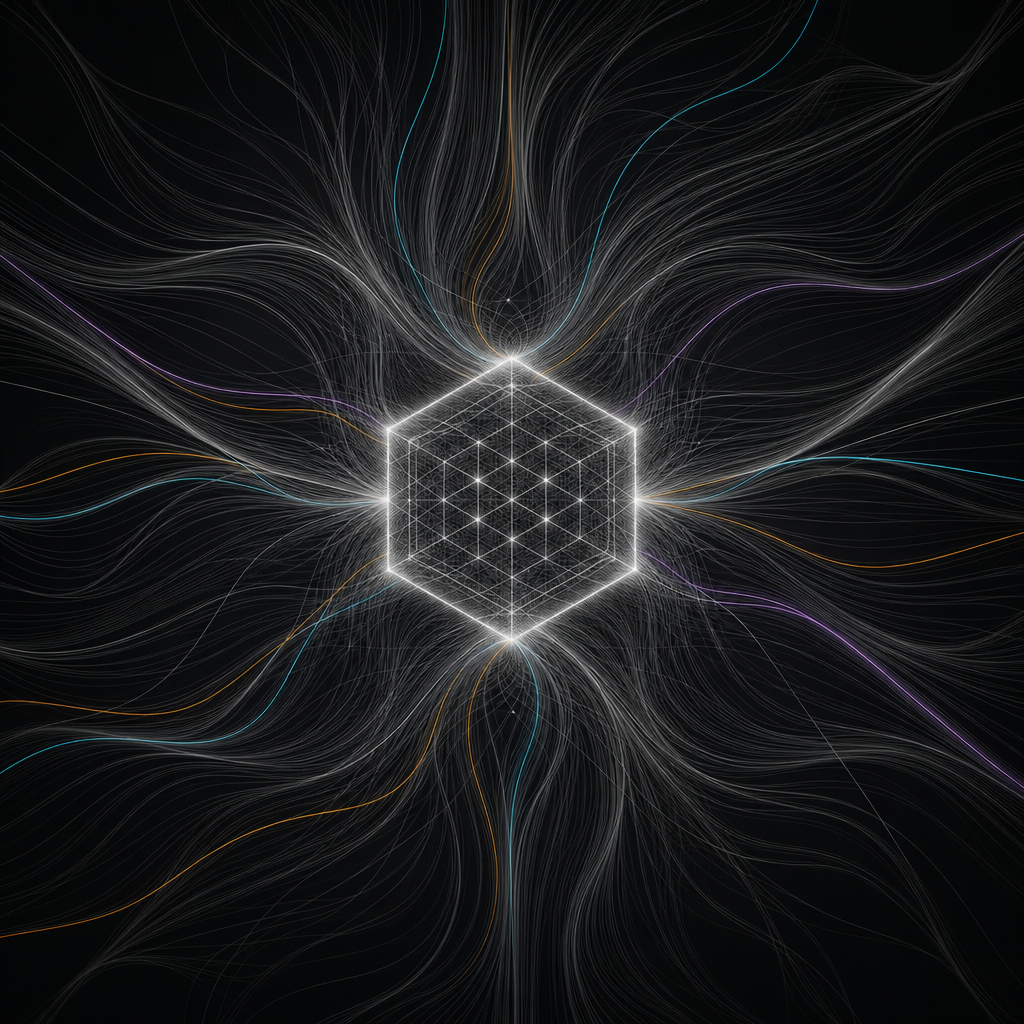
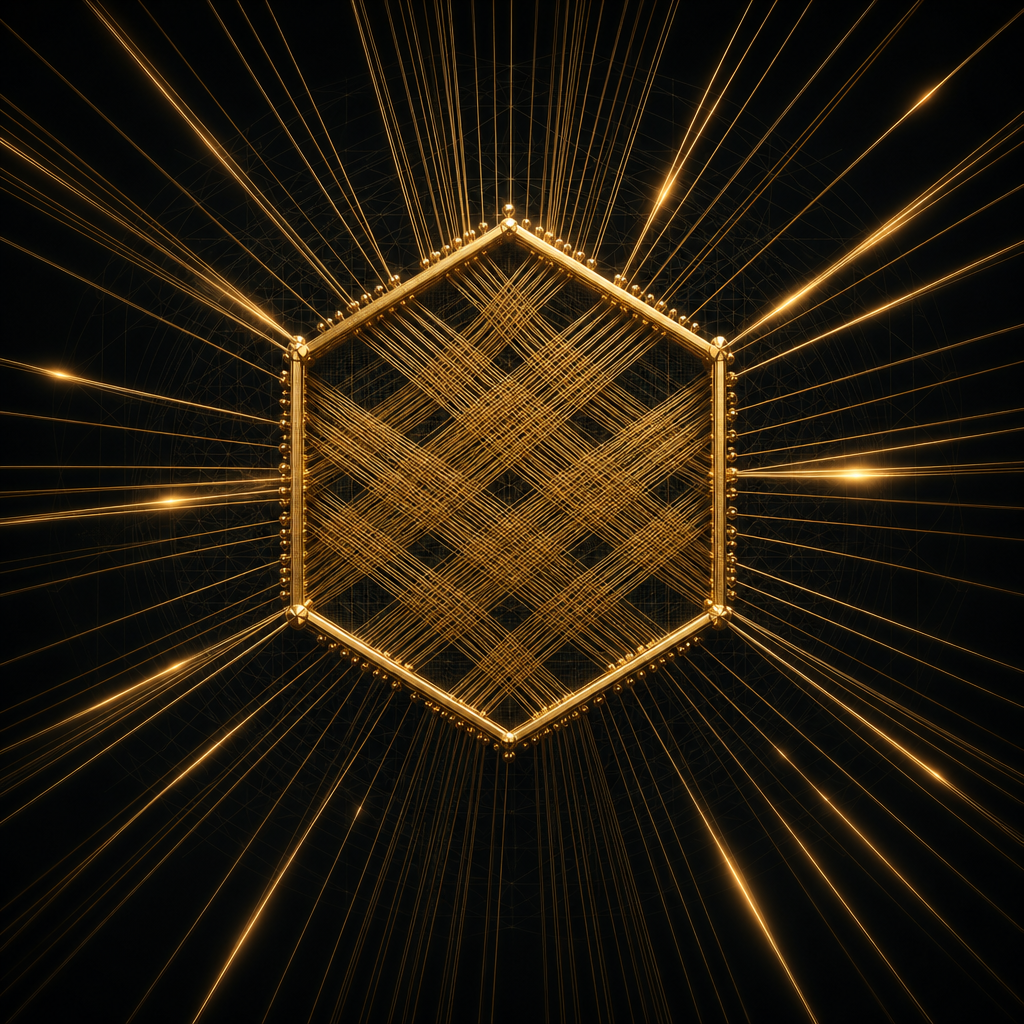
docs: README diagrams v2 (unified thread aesthetic) + news skill tweak (#446)
* docs(readme): swap all four diagrams to v2 (unified thread aesthetic)

絲絲 v2 統一了視覺語言 — 全部走「發光 thread + 編織」的調性：
- hero — 金色六邊形 + 放射光線
- architecture — 七層橫向 woven 帶狀, harness 居中發光
- middleware — spirograph 同心織紋, 中心 tool handler
- action-lifecycle — 主軸光鏈 + abort/timeout 虛線分岔, 火花點綴

取代 v1 的扁平科技風（Linear / Vercel 那種）。README URL 不變。

* docs(skill): news-aggregator — add Legitimacy Guard pre-step + concise wording

- 步驟 1 加入「先 list_dir(\"news/\") 建立 Legitimacy Guard 上下文」前置步驟
  解釋 fetch_news.py subprocess 為什麼不能直接建立寫入 context
- 摘要描述「跨領域關聯分析」→「跨域關聯分析」
- 修回 description typo（脫脫離 → 脫離）

---------

diff --git a/skills/news-aggregator/SKILL.md b/skills/news-aggregator/SKILL.md
@@ -29,7 +29,7 @@ Loom/
 │       ├── international_briefing.md → 國際晨報
 │       ├── medical_briefing.md     → 醫學晨報
 │       ├── astronomy_briefing.md    → 天文晨報
-│       └── daily_briefing.md       → 四合一總摘要（含跨領域關聯分析）
+│       └── daily_briefing.md       → 四合一總摘要（含跨域關聯分析）
 └── skills/news-aggregator/
     ├── SKILL.md                  ← 本技能定義
     └── scripts/
@@ -41,7 +41,15 @@ Loom/
 
 ## 🔄 工作流程
 
-### 步驟 1：抓取（fetch）
+### 步驟 1：前置準備（建立寫入上下文）
+```bash
+# 在任何 write_file 之前，先執行這行建立 news/ 目錄的 Legitimacy Guard 上下文
+list_dir("news/")
+```
+> ⚠ **重要性**：fetch_news.py 由 run_bash subprocess 執行，無法建立 Loom 的 Legitimacy Guard 上下文。
+> 若跳過此步驟，後續 `write_file` 到 `news/YYYY-MM-DD/*.md` 會被 Guard 擋住（看似成功但實際被 block）。
+
+### 步驟 2：抓取（fetch）
 ```bash
 cd skills/news-aggregator/scripts
 
@@ -55,7 +63,7 @@ python fetch_news.py --source tech --limit 8 --no-save
 python fetch_news.py --source hackernews --no-save
 ```
 
-### 步驟 2：深度整合（integrate）
+### 步驟 3：深度整合（integrate）
 讀取 JSON 資料後，以下的格式要求是強制性的——
 **絲絲的整合想法比原始新聞更有價值**，因此每則新聞都必須包含絲絲自己的深度分析，而非只是轉述。
 
@@ -130,15 +138,16 @@ python fetch_news.py --source hackernews --no-save
 |------|------|
 | Hacker News | ✅ 正常 |
 | GitHub Trending | ✅ 正常 |
-| Reuters World | ⚠ 需確認 |
+| Reuters World | ⚠ 部分網路環境 DNS 解析失敗，以 BBC/NHK 為主 |
 | BBC World | ✅ 正常 |
 | NHK World | ✅ 正常 |
 | NEJM Alerts | ✅ 正常 |
 | WHO News | ✅ 正常 |
 | Medscape Medical | ✅ 正常 |
-| NASA News | ✅ 正常 |
+| NASA News (RSS) | ✅ 正常（NASA News RSS feed） |
 | ESA News | ✅ 正常 |
 | Astronomy.com | ✅ 正常 |
+| NASA APOD | ⚠ URL 格式已變更（`apod.nasa.gov/apod/apYYMMDD.html`），需更新 fetch 方式 |
 
 ---
 
@@ -217,6 +226,8 @@ python fetch_news.py --source hackernews --no-save
 2. **Ben's Bites** 受 Cloudflare 保護，需要 Playwright
 3. Reuters RSS 在部分網路環境可能 DNS 解析失敗，標記 ⚠ 並以 BBC/NHK 為主
 4. `--deep` 模式會增加抓取時間
+5. **NASA APOD**：URL 格式已從 `apod.nasa.gov/apod/` 變更為 `apod.nasa.gov/apod/apYYMMDD.html`，
+   需要主動拼接當天日期才能抓取；Astronomy.com 可作為穩定的備援來源
 
 ---
 
